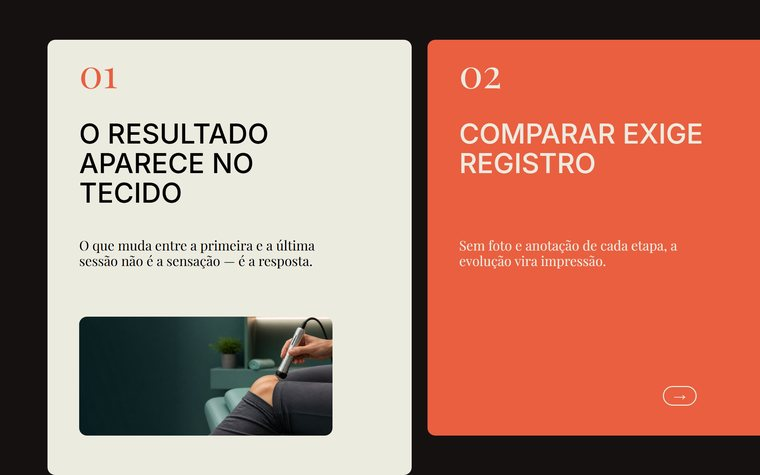
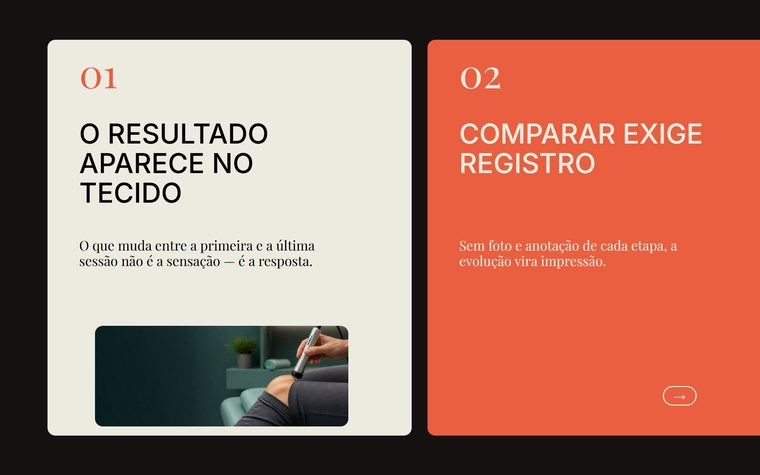
editorial-cards-continuos: altura unica + gates de conjunto
Gustavo viu os miolos com foto batendo na base do slide. Eu tinha esticado
esses cartoes para a linha 13 enquanto o padrao e 12 — ou seja, violei a regra
que eu mesmo tinha acabado de escrever, e dentro do MESMO exemplar conviviam
dois tamanhos.

Todos agora 2-12. Quem cede e o conteudo: foto menor, copy mais curta, e duas
variacoes abrem mao da seta (foto-embaixo e foto-retrato) porque nao cabem em
10 linhas sem encostar.

Tres gates novos, porque ajuste manual de linha erra sozinho:
- CARTOES DE ALTURAS DIFERENTES na mesma fita. Gate de conjunto — nenhuma
  checagem por elemento pegaria. Referencia e a MENOR altura, nao a moda: com
  dois cartoes a moda e ambigua e o gate acusava o inocente.
- ELEMENTOS DO CARTAO QUE SE TOCAM. Numero sobre foto, numero sobre headline,
  headline sobre apoio — quatro ocorrencias nesta sessao. Exige 12px de folga:
  so "nao sobrepor" deixava passar quem dividia linha de grid. Restrito ao
  interior de cartao, senao a capa full-bleed (texto sobre foto, que e o
  desenho correto) virava falso positivo.
- Ao rodar pela primeira vez, o gate de sobreposicao encontrou de imediato
  tres colagens que eu nao tinha visto.

data-gap novo no motor: foto dentro de cartao estica ate preencher a celula e
encosta no vizinho. 26px de margem resolve sem gastar uma linha (113px).

Changed region(s): [[0.0605, 0.6484, 0.5447, 1.0]]

diff --git a/engine/convert.js b/engine/convert.js
@@ -324,6 +324,69 @@ const rgb2hex = (c) => {
       }
     }
 
+    // ELEMENTOS DO CARTÃO QUE SE SOBREPÕEM. Aconteceu quatro vezes nesta
+    // sessão — número sobre foto, número sobre headline, headline sobre apoio —
+    // sempre ao remanejar linhas para caber o conteúdo. O gate de borda não
+    // pega: ele olha a borda do cartão, não a colisão entre irmãos.
+    {
+      // SÓ dentro de cartão: sobre foto de capa, texto por cima da imagem é o
+      // desenho correto (full-bleed), não colisão.
+      const cards = [...document.querySelectorAll(".ds-card")].map(
+        (c) => c.getBoundingClientRect());
+      const dentroDeCartao = (r) => cards.some((c) =>
+        r.left >= c.left - 2 && r.right <= c.right + 2
+        && r.top >= c.top - 2 && r.bottom <= c.bottom + 2);
+      const conteudo = [...document.querySelectorAll(
+        ".ds-number, .ds-headline, .ds-body, .ds-photo, .ds-slot, .ds-stamp, .ds-cta")]
+        .filter((el) => dentroDeCartao(el.getBoundingClientRect()));
+      for (let i = 0; i < conteudo.length; i++) {
+        const n = conteudo[i];
+        const a = n.getBoundingClientRect();
+        for (const o of conteudo.slice(i + 1)) {
+          const b = o.getBoundingClientRect();
+          // ENCOSTAR também é defeito: exige folga real entre irmãos. Sem
+          // isso, headline e apoio que dividem uma linha de grid passam — foi
+          // assim que a colagem chegou ao render mais de uma vez.
+          const FOLGA = 12;
+          const inter = Math.max(0, Math.min(a.right, b.right) - Math.max(a.left, b.left) + FOLGA)
+                      * Math.max(0, Math.min(a.bottom, b.bottom) - Math.max(a.top, b.top) + FOLGA);
+          const cruzaX = a.left < b.right + FOLGA && a.right + FOLGA > b.left;
+          const cruzaY = a.top < b.bottom + FOLGA && a.bottom + FOLGA > b.top;
+          if (cruzaX && cruzaY) {
+            rejects.push({ id: n.getAttribute("data-el-id"),
+              reason: `sobrepõe ${o.getAttribute("data-el-id") || o.className} `
+                + `— elementos do cartão não se tocam (mínimo ${FOLGA}px de folga)` });
+            break;
+          }
+        }
+      }
+    }
+
+    // CARTÕES DE TAMANHOS DIFERENTES na mesma fita. Um cartão que cresce para
+    // caber o conteúdo denuncia a montagem: a régua muda de slide para slide e
+    // a fita perde o ritmo. O conteúdo é que se ajusta à caixa, não o contrário.
+    // Gate de conjunto — nenhuma checagem por elemento pegaria isto.
+    // O de fechamento é a exceção legítima (não sangra, é a parada do padrão),
+    // então a comparação é por ALTURA, que ele compartilha com os demais.
+    {
+      const cards = [...document.querySelectorAll(".ds-card")].map((c) => ({
+        id: c.getAttribute("data-el-id"), h: Math.round(c.getBoundingClientRect().height) }));
+      const alturas = [...new Set(cards.map((c) => c.h))];
+      if (alturas.length > 1) {
+        // referência = MENOR altura, não a moda: com dois cartões a moda é
+        // ambígua e o gate acusa o inocente. O cartão que cresceu é sempre o
+        // que passou do tamanho, então o menor é a régua.
+        const base = Math.min(...cards.map((c) => c.h));
+        for (const c of cards) {
+          if (c.h - base > 2) {
+            rejects.push({ id: c.id, reason: `cartão com altura diferente dos irmãos `
+              + `(${c.h}px contra ${base}px) — todo cartão tem o mesmo tamanho; `
+              + `ajuste o conteúdo à caixa, não a caixa ao conteúdo` });
+          }
+        }
+      }
+    }
+
     return { slides, rejects,
       templateName: fita.getAttribute("data-template-name") || document.documentElement.getAttribute("data-template-name") || "",
       segment: fita.getAttribute("data-segment") || document.documentElement.getAttribute("data-segment") || "",

diff --git a/packs/editorial-cards-continuos/exemplos/ref-miolo-foto-retrato.html b/packs/editorial-cards-continuos/exemplos/ref-miolo-foto-retrato.html
@@ -14,7 +14,10 @@
      O texto ocupa uma coluna estreita, então headline e apoio ficam mais
      curtos que nas outras variações (ver os te-max-chars).
      Margens: cartão [3,14) sangra 1 col; borda VISÍVEL é 13, conteúdo até 12.
-     Entre a foto e a coluna de texto fica 1 coluna inteira de respiro. -->
+     Entre a foto e a coluna de texto fica 1 coluna inteira de respiro.
+     SEM SETA, como a variação de foto embaixo: a coluna de leitura é estreita e
+     headline + apoio + pill não cabem nas 10 linhas sem se tocarem. O cartão
+     tem o mesmo tamanho dos irmãos — quem cede é o conteúdo, não a caixa. -->
 <main class="fita" data-pack="editorial-cards-continuos" data-template-name="Miolo com foto retrato" data-segment="exemplar">
 
   <section class="slide" data-role="item" data-dark></section>
@@ -22,20 +25,18 @@
 
   <div class="fita-layer" data-split-ok>
     <!-- CARTÃO: foto à esquerda (col 4-7), texto à direita (col 8-12). -->
-    <div class="ds-card" data-el-id="r1" data-half-left data-layer style="grid-area: 2 / 3 / 13 / 14"></div>
-    <img class="ds-photo" data-el-id="r1p" data-half-left data-static data-layer data-round
-         data-image-type="generated" src="asset-vertical.jpg" style="grid-area: 3 / 4 / 12 / 8">
+    <div class="ds-card" data-el-id="r1" data-half-left data-layer style="grid-area: 2 / 3 / 12 / 14"></div>
+    <img class="ds-photo" data-el-id="r1p" data-gap data-half-left data-static data-layer data-round
+         data-image-type="generated" src="asset-vertical.jpg" style="grid-area: 3 / 4 / 11 / 8">
     <span class="ds-number" data-el-id="r1n" data-half-left data-static data-layer data-face="serif"
           data-size="lg" data-inset="top" style="grid-area: 3 / 9 / 4 / 12">01</span>
     <h2 class="ds-headline" data-weight="medium" data-el-id="r1h" data-half-left data-layer data-template-element
         data-te-description="tese do cartão" data-te-min-chars="10" data-te-max-chars="24"
-        style="grid-area: 5 / 9 / 8 / 12">Cada área tem seu tempo</h2>
+        style="grid-area: 5 / 9 / 8 / 12">Cada área no seu tempo</h2>
     <p class="ds-body" data-el-id="r1b" data-half-left data-layer data-face="serif"
        data-template-element data-te-description="apoio"
        data-te-min-chars="24" data-te-max-chars="80"
-       style="grid-area: 9 / 9 / 11 / 12">Joelho e ombro não respondem no mesmo ritmo.</p>
-    <a class="ds-stamp" data-el-id="r1s" data-half-left data-static data-layer data-glyph
-       style="grid-area: 11 / 9 / 13 / 12">&#8594;</a>
+       style="grid-area: 9 / 9 / 11 / 12">Joelho e ombro têm ritmos distintos.</p>
 
     <!-- CARTÃO seguinte volta ao registro de texto. -->
     <div class="ds-card" data-el-id="r2" data-half-left data-layer data-variable="primary"

diff --git a/packs/editorial-cards-continuos/exemplos/ref-miolo-cartao-com-foto.html b/packs/editorial-cards-continuos/exemplos/ref-miolo-cartao-com-foto.html
@@ -21,21 +21,21 @@
     <!-- CARTÃO com foto: número em faixa própria (linha 2), foto ABAIXO dele
          (4-7), texto 8-11, seta 12. O número nunca pousa sobre a imagem —
          serifa fina sobre foto some, e a foto tem raio próprio. -->
-    <div class="ds-card" data-el-id="f1" data-half-left data-layer style="grid-area: 2 / 3 / 13 / 14"></div>
-    <img class="ds-photo" data-el-id="f1p" data-half-left data-static data-layer data-round
+    <div class="ds-card" data-el-id="f1" data-half-left data-layer style="grid-area: 2 / 3 / 12 / 14"></div>
+    <img class="ds-photo" data-el-id="f1p" data-gap data-half-left data-static data-layer data-round
          data-image-type="generated" src="foto-detalhe.jpg" style="grid-area: 4 / 4 / 7 / 12">
     <span class="ds-number" data-el-id="f1n" data-half-left data-static data-layer data-face="serif"
           data-size="lg" data-corner data-inset="top"
           style="grid-area: 2 / 4 / 3 / 8">01</span>
     <h2 class="ds-headline" data-weight="medium" data-el-id="f1h" data-half-left data-layer data-template-element
         data-te-description="tese do cartão" data-te-min-chars="12" data-te-max-chars="30"
-        style="grid-area: 8 / 4 / 10 / 12">A dose se lê na pele</h2>
+        style="grid-area: 7 / 4 / 9 / 12">A dose se lê na pele</h2>
     <p class="ds-body" data-el-id="f1b" data-half-left data-layer data-face="serif"
        data-template-element data-te-description="apoio"
        data-te-min-chars="30" data-te-max-chars="110"
-       style="grid-area: 10 / 4 / 12 / 12">O que a área responde na sessão orienta o ajuste da seguinte.</p>
+       style="grid-area: 9 / 4 / 11 / 12">O que a área responde na sessão orienta o ajuste da seguinte.</p>
     <a class="ds-stamp" data-el-id="f1s" data-half-left data-static data-layer data-glyph
-       style="grid-area: 12 / 8 / 13 / 12">&#8594;</a>
+       style="grid-area: 11 / 8 / 12 / 12">&#8594;</a>
 
     <!-- CARTÃO seguinte, só texto: a variação alterna, não se repete. -->
     <div class="ds-card" data-el-id="f2" data-half-left data-layer data-variable="primary"

diff --git a/packs/editorial-cards-continuos/exemplos/ref-miolo-foto-embaixo.html b/packs/editorial-cards-continuos/exemplos/ref-miolo-foto-embaixo.html
@@ -20,7 +20,7 @@
 
   <div class="fita-layer" data-split-ok>
     <!-- CARTÃO: número (2), headline (3-5), apoio (6-7), foto fecha (8-12). -->
-    <div class="ds-card" data-el-id="b1" data-half-left data-layer style="grid-area: 2 / 3 / 13 / 14"></div>
+    <div class="ds-card" data-el-id="b1" data-half-left data-layer style="grid-area: 2 / 3 / 12 / 14"></div>
     <span class="ds-number" data-el-id="b1n" data-half-left data-static data-layer data-face="serif"
           data-size="lg" data-corner data-inset="top" style="grid-area: 2 / 4 / 3 / 8">01</span>
     <h2 class="ds-headline" data-weight="medium" data-el-id="b1h" data-half-left data-layer data-template-element
@@ -30,7 +30,7 @@
        data-template-element data-te-description="apoio"
        data-te-min-chars="30" data-te-max-chars="110"
        style="grid-area: 7 / 4 / 9 / 12">O que muda entre a primeira e a última sessão não é a sensação — é a resposta.</p>
-    <img class="ds-photo" data-el-id="b1p" data-half-left data-static data-layer data-round
+    <img class="ds-photo" data-el-id="b1p" data-gap data-half-left data-static data-layer data-round
          data-image-type="generated" src="foto-detalhe.jpg" style="grid-area: 9 / 4 / 12 / 12">
 
     <!-- CARTÃO seguinte volta ao registro de texto: variação alterna. -->

diff --git a/engine/design-system.css b/engine/design-system.css
@@ -214,6 +214,10 @@ img.ds-photo, img.ds-slot {
   justify-self: stretch;
 }
 img[data-round]  { border-radius: var(--radius); }
+/* foto DENTRO de cartão: a imagem estica até preencher a célula do grid, então
+   encosta em quem estiver na linha vizinha. A margem dá a folga de leitura sem
+   custar uma linha inteira do grid (que é 113px — caro demais para respiro). */
+img[data-gap] { margin: 26px 0; height: calc(100% - 52px); }
 img[data-circle] { border-radius: 50%; }
 /* cutout (professionalPhoto): ancora na base da área, sem crop de moldura */
 img[data-cutout] { object-fit: contain; object-position: bottom center; }

diff --git a/packs/editorial-cards-continuos/tecnicas.md b/packs/editorial-cards-continuos/tecnicas.md
@@ -157,9 +157,19 @@ tente fazê-la "seguir" o texto.
 
 ## Margens e respiro (regra dura, com gate)
 
-**Todo cartão tem o mesmo tamanho.** A única exceção é o de fechamento, que não
-sangra. Encolher um cartão para resolver vazamento é conserto preguiçoso e
-visível — recalcule as coordenadas.
+**Todo cartão tem o mesmo tamanho — linhas 2 a 12, sempre.** Vale para os
+cartões com foto também: eles NÃO ganham uma linha extra para o conteúdo caber.
+Quem cede é o conteúdo (foto menor, copy mais curta, seta removida), nunca a
+caixa. A única exceção é o de fechamento, que não sangra.
+
+Duas variações abrem mão da seta por isso: `foto-embaixo` (a imagem ocupa o
+rodapé) e `foto-retrato` (a coluna de leitura é estreita demais para headline +
+apoio + pill em 10 linhas).
+
+**Foto dentro de cartão leva `data-gap`.** A imagem estica até preencher a
+célula do grid, então encosta em quem estiver na linha vizinha. O modificador
+dá 26px de margem vertical — folga de leitura sem gastar uma linha inteira
+(cada linha vale 113px, caro demais para respiro).
 
 **Nada encosta na borda do cartão.** Nem texto, nem número, nem seta. O
 conversor rejeita conteúdo com menos de **24px** de folga para qualquer borda

diff --git a/knowledge/design/geral.md b/knowledge/design/geral.md
@@ -319,3 +319,12 @@ elemento que TRANSBORDAVA — a violação mais grave era a única que escapava.
 
 Escreva o gate, quebre um exemplar de propósito, veja a rejeição sair com o
 `data-el-id` certo, só então conserte o exemplar.
+
+## A caixa não cresce para o conteúdo caber
+
+Cartão que ganha uma linha a mais porque tem foto denuncia a montagem: a régua
+muda de slide para slide e a fita perde o ritmo. Quem cede é o conteúdo — foto
+menor, copy mais curta, elemento removido —, nunca a caixa.
+
+Corolário: se um registro não cabe na caixa padrão nem cortando conteúdo, ele
+não é uma variação daquele pack.
